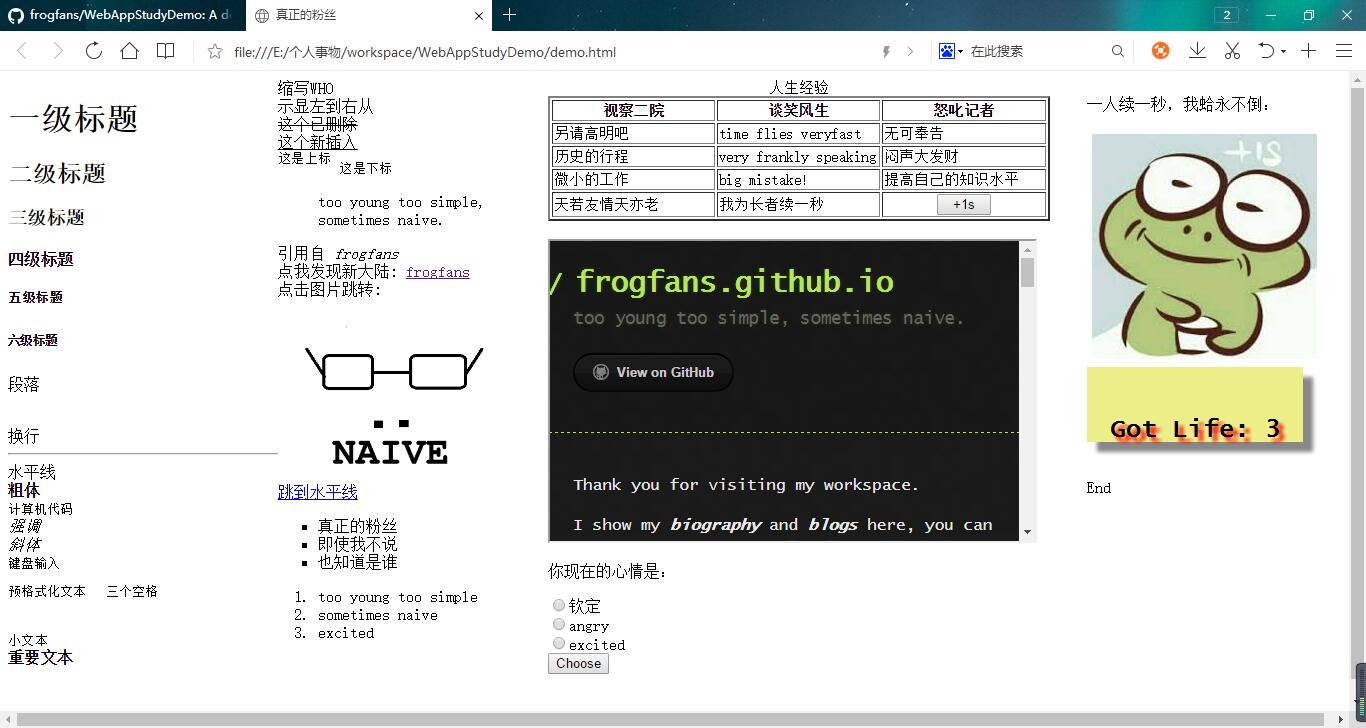
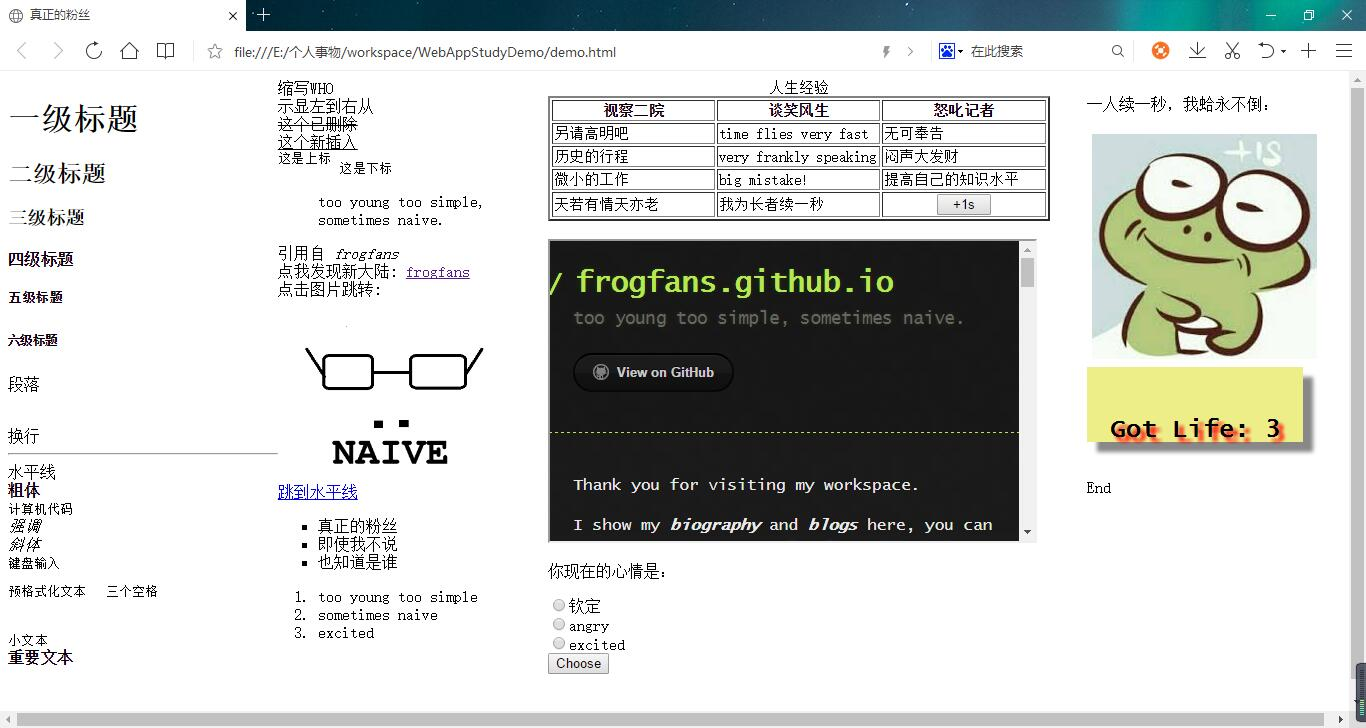
update

Changed region(s): [[0.0, 0.0, 0.369, 0.0604]]

diff --git a/demo.html b/demo.html
@@ -66,7 +66,7 @@
 			<tbody>
 				<tr>
 					<td>另请高明吧</td>
-					<td>time flies veryfast</td>
+					<td>time flies very fast</td>
 					<td>无可奉告</td>
 				</tr>
 				<tr>
@@ -82,7 +82,7 @@
 			</tbody>
 			<tfoot>
 				<tr>
-					<td>天若友情天亦老</td>
+					<td>天若有情天亦老</td>
 					<td>我为长者续一秒</td>
 					<td id="td1"><input type="button" value="  +1s  " onclick="donateLife()"></td>
 				</tr>
